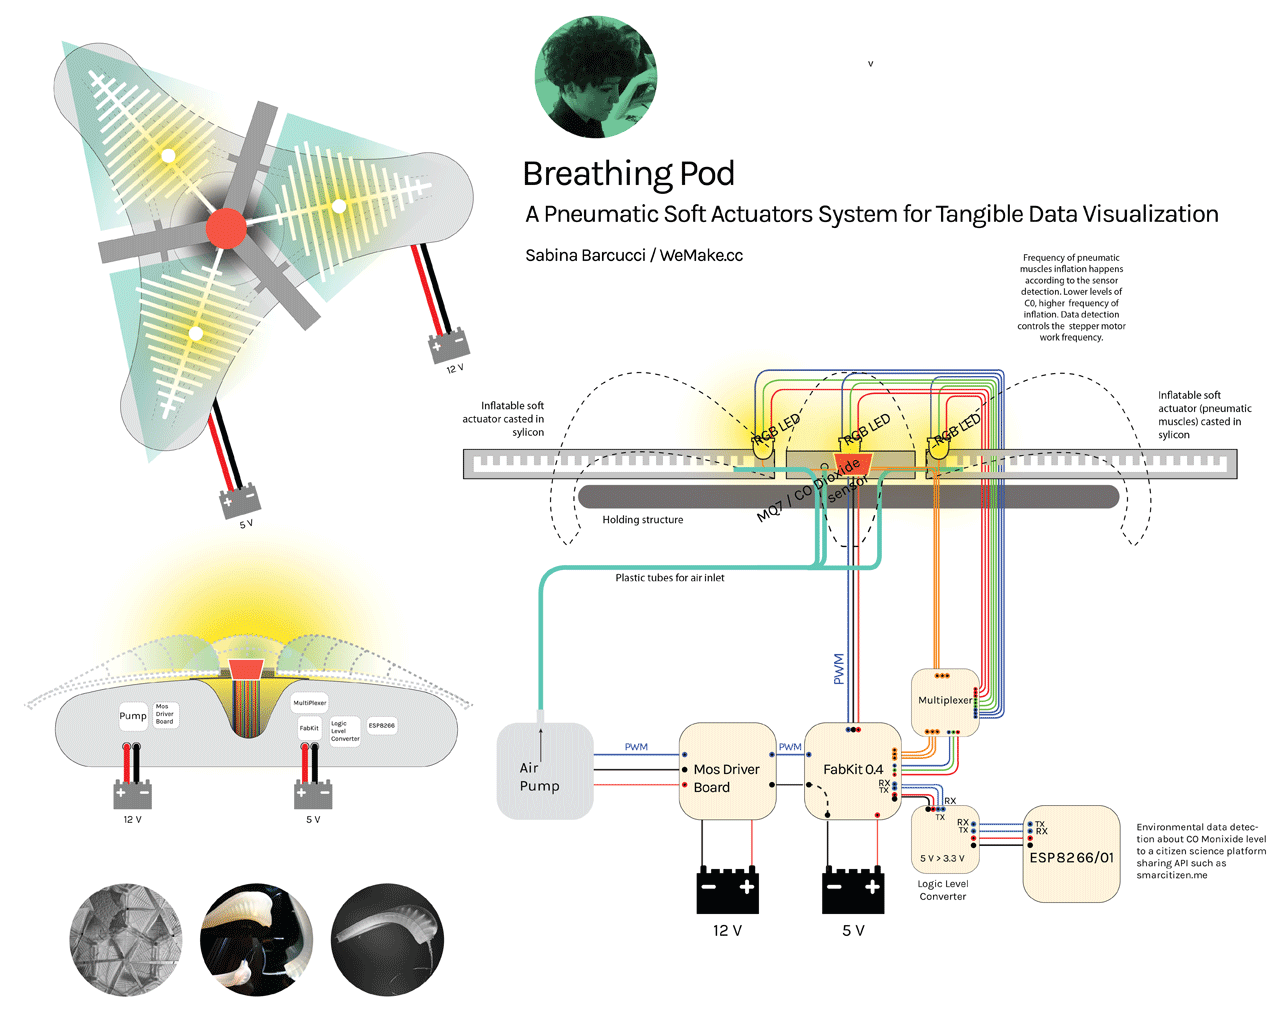
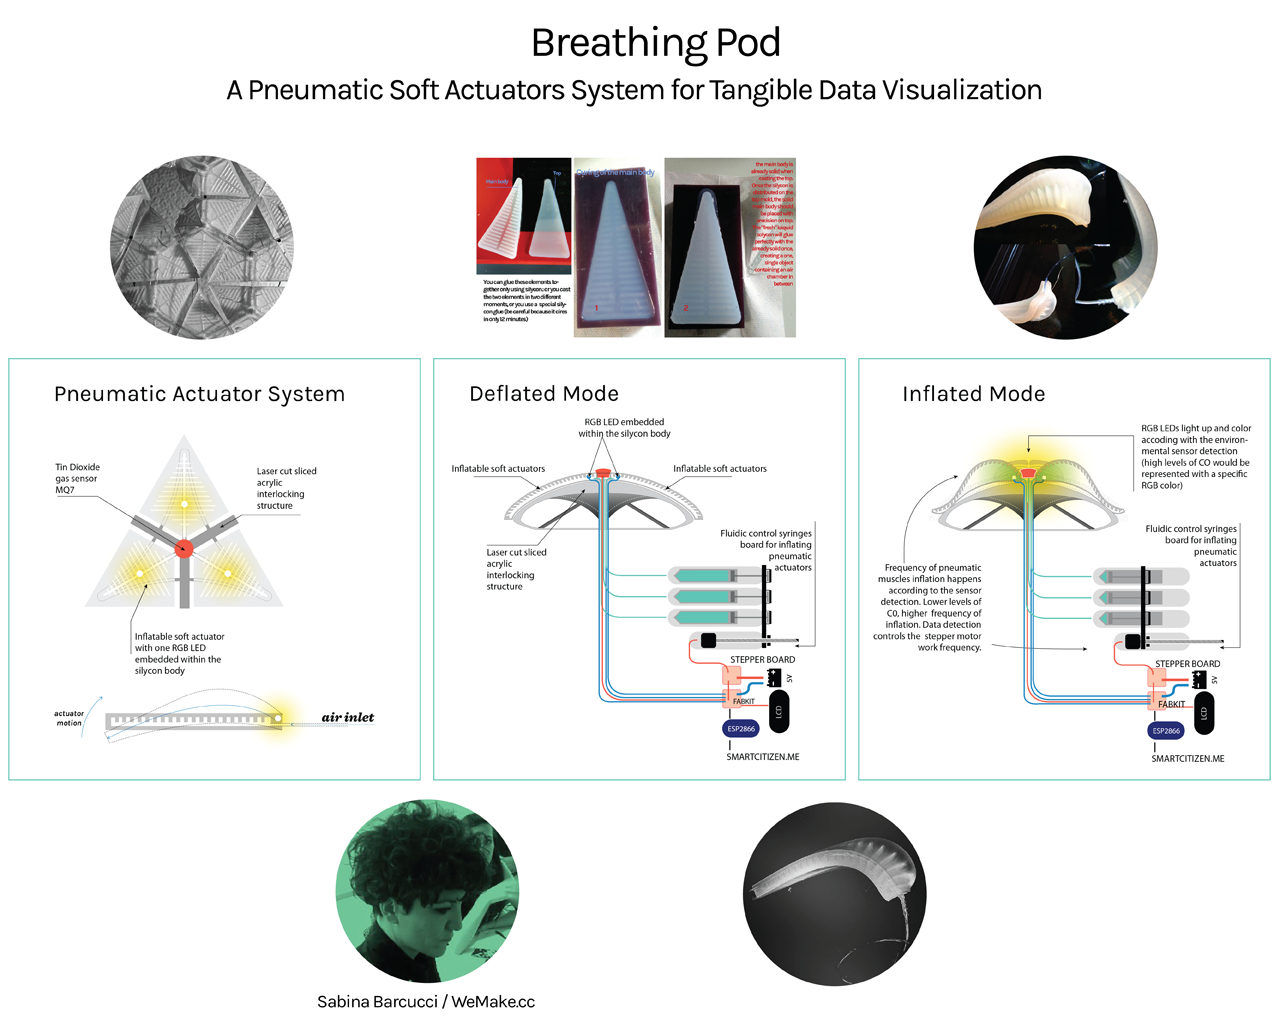
update final project

diff --git a/barcucci.sabina/project01.html b/barcucci.sabina/project01.html
@@ -82,11 +82,21 @@
 
 <h2><strong>Breathing Pod</strong></h1>
     
-        <h3>Final Project</h3> 
+        <h3>A pneumatic soft actuator system for Tangible, Environmental Data Visualization </h3> 
+         
     
 	<p>
 	<img src="img/1_penunetz.jpg"/></a> <br> 
       </a> <br> 
+    
+    <h3>01/ Pump version</h3>
+    <img src="img/Pump_Version_01.jpg"/></a> <br> 
+      </a> <br> 
+<img src="img/Pump_Version_02.jpg"/></a> <br> 
+      </a> <br> 
+<img src="img/Pump_Version_03.jpg"/></a> <br> 
+      </a> <br> <br> <br> 
+    <h3>02 / Sirynge version</h3>
     <img src="img/2_still_mode.jpg"/></a> <br> 
       </a> <br> 
 <img src="img/3_Inflated_mode.jpg"/></a> <br> 
@@ -99,7 +109,8 @@
       </a> <br> 
 	</p>
     
-<iframe width="853" height="480" src="https://www.youtube.com/embed/pRHO9Vc8d_c" frameborder="0" allowfullscreen></iframe>
+<iframe width="853" height="480" src="https://www.youtube.com/embed/pRHO9Vc8d_c" frameborder="0" allowfullscreen></iframe> <br>
+
     
 
 <!--
